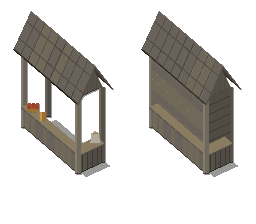
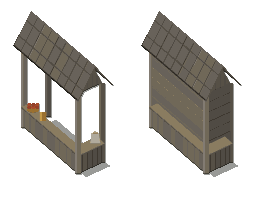
LLM-968h: review fixes: keeper a row behind the anchor, placements staged by id
The stand tile moves to (0, -1), a row behind the anchor, so the keeper's y
is always less than the stall's and the shared y-sorted layer draws the
keeper first (on the anchor's own row the two tied, and the tie goes to
tree order: villagers in front of the counter). The footprint becomes 3x3
with the door at (0, -2), the customers move to (-2, 0) clear of the art,
the debris slot to (40, -8) (the same spot on the art), and the eaves rise
2 px to clear the keeper's head. The up stages the five stalls by id and
tile and refuses any other placement; the down restores only a stall still
where the up left it. New client test stall_keeper_view_test.gd places each
painted stall with a keeper the way world.gd does.

diff --git a/tools/tree-art/stalls.py b/tools/tree-art/stalls.py
@@ -12,20 +12,25 @@ density 2, shown at render_scale 1).
 An open market booth, seen corner-on like the buildings: a counter on its
 two front sides, four posts, a gable roof with its ridge along the long
 front-left counter, and no wall behind the keeper. The client draws a
-see-through structure's keeper (visible_when_inside) on the stand tile
-BEFORE the stall (y-sort: the stand tile is the anchor tile, the stall's
-own row), so the keeper shows only through the art's empty pixels: the open
-booth leaves the space between the counters and the roof empty, and the
-keeper shows from the waist up behind the counter. Closed (no keeper: the
+see-through structure's keeper (visible_when_inside) on the stand tile, and
+villagers and objects share one y-sorted layer (z_index 10): the stand tile
+is the row behind the anchor tile, so the keeper is always drawn before the
+stall, wherever the stall sits in its tile, and shows only through the art's
+empty pixels. The open booth leaves the space between the counters and the
+roof empty, and the keeper shows from the waist up behind the counter. (On
+the anchor's own row the keeper would tie the stall's y and the tie goes to
+tree order, which draws villagers last: in front of the counter.) Closed (no keeper: the
 stall shows closed when nobody is in it), shutters close both fronts from
 the counter to the eaves.
 
 The art fits the tiles set by migration LLM-968h: the object snapped to its
-anchor tile's centre, which is the stand tile (anchor 0.5 / 152/224: the
-keeper's feet); the footprint 3 wide and 2 deep (left 1, right 1, top 1);
-the door at the back centre (0, -1), the keeper coming in from behind; the
-customers in front of the long counter (loiter (-1, 1)). The back corner
-post stands left of the keeper's column so it never crosses them.
+anchor tile's centre, the counter row (anchor 0.5 / 184/224, a tile below
+the keeper's feet); the stand tile (0, -1), the keeper's feet at pack
+(32, 76); the footprint 3 wide and 3 deep (left 1, right 1, top 2); the door
+at the back centre (0, -2), the keeper coming in from behind; the customers
+front-left of the long counter (loiter (-2, 0)), clear of the art. The back
+corner post stands left of the keeper's column and the near post right of
+it, so neither crosses them.
 
 Period New England (1692): Wood is weathered grey-brown oak under a roof of
 riven boards, Tiled brown oak under cedar shingles (a Salem roof's
@@ -49,16 +54,18 @@ import fences as F
 OUT_DIR = B.OUT_DIR
 
 FW, FH = 64, 112
-# The keeper's feet: the stand tile's centre, which is the object's position.
-ANCHOR = (0.5, 76.0 / 112.0)
+# The object's position: the anchor tile's centre, a tile (16 pack px) below
+# the keeper's feet at (32, 76), which stand on the stand tile (0, -1).
+ANCHOR = (0.5, 92.0 / 112.0)
+KEEPER_FEET = (32, 76)
 
 # The booth on the ground: near, left, right and far corners (pack px).
 A = (-1.0, -0.86)   # along the front-left face, from near to left
 BV = (1.0, -0.46)   # along the front-right face, from near to right
 N = (39.0, 87.0)
 UW, VD = 27.0, 12.0
-H = 38.0            # eave height
-PEAK = 15.0         # roof rise above the eaves
+H = 40.0            # eave height: the front eave clears the keeper's head
+PEAK = 13.0         # roof rise above the eaves
 OVER = 2.6          # eave overhang
 COUNTER = 11.0
 
@@ -270,12 +277,12 @@ def build_sheet(kind):
 
 SHEETS = {"stall-" + k: (lambda k=k: build_sheet(k)) for k in KINDS}
 
-# The keeper's window, in pack px of the frame: where the keeper's head and
-# shoulders stand when they are on the stand tile (feet at the anchor
-# (32, 76); a villager is about 28 pack px tall). It must be empty in an
-# open frame (the keeper shows there) and covered in a closed one (the
-# shutters are up).
-KEEPER_WINDOW = (28, 50, 36, 60)
+# The keeper's window, in pack px of the frame: the keeper's head and
+# shoulders when they stand on the stand tile (feet at KEEPER_FEET; a
+# villager is about 28 pack px tall, so the head's top is at y 48). It must
+# be empty in an open frame (the keeper shows there) and covered in a closed
+# one (the shutters are up).
+KEEPER_WINDOW = (28, 48, 36, 60)
 
 
 def window_alpha(frame):
